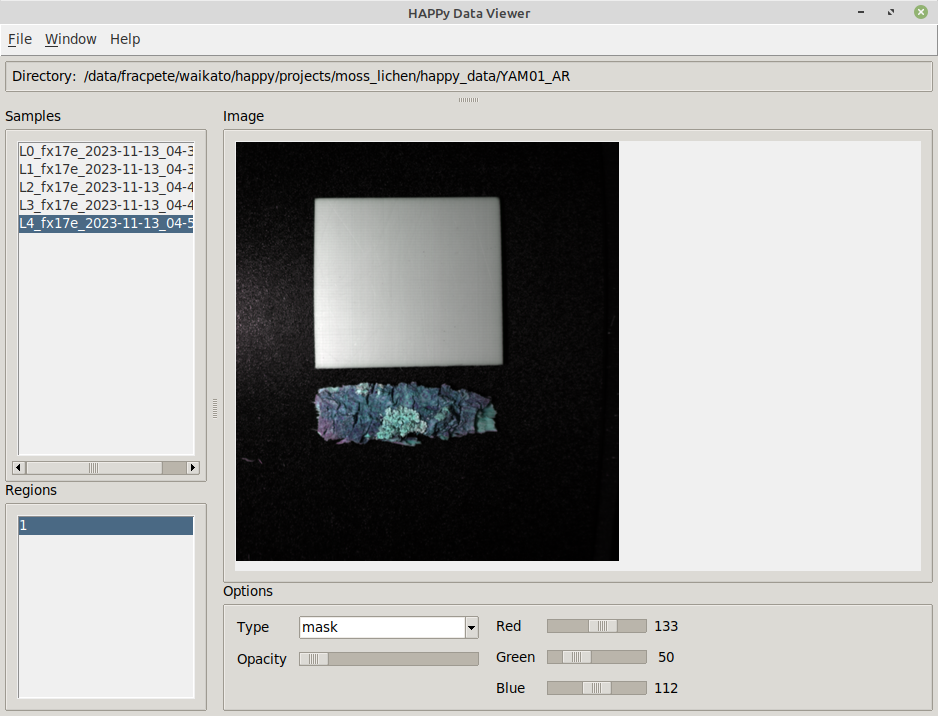
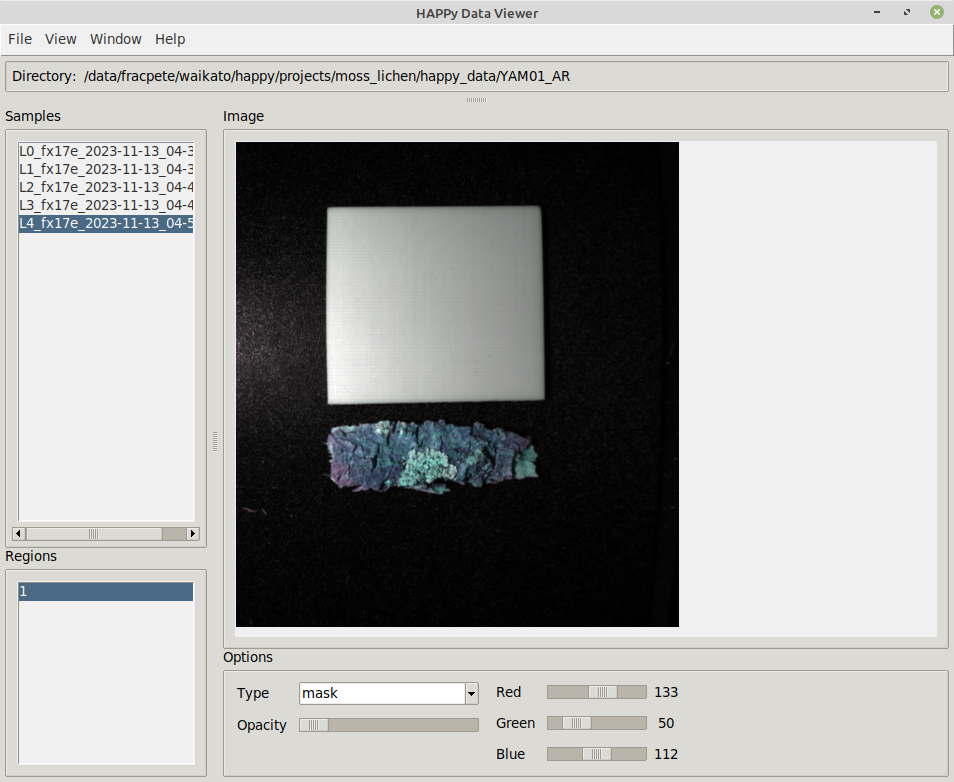
updated screenshot and added note about being able to change normalization

diff --git a/docs/happy/happy_tools/happy-data-viewer.md b/docs/happy/happy_tools/happy-data-viewer.md
@@ -1,7 +1,10 @@
 Used for viewing data that has been converted into a HAPPy folder structure.
 
-* HAPPy directories can be opened via *File -> Open dir...*
-* The currently displayed image can be exported via *File -> Export image...*
+* HAPPy directories can be opened via *File > Open dir...*
+* The currently displayed image can be exported via *File > Export image...*
+* With *View > Normalization...* you can enter the command-line of another
+  [normalization](https://github.com/wairas/happy-tools/tree/main/plugins#normalizations) 
+  plugin to change how the fake RGB is being generated.
 * The menu items from the *Help* menu open browser windows with relevant pages.
 
 ![Data Viewer with sample loaded](img/data_viewer-main.png)
